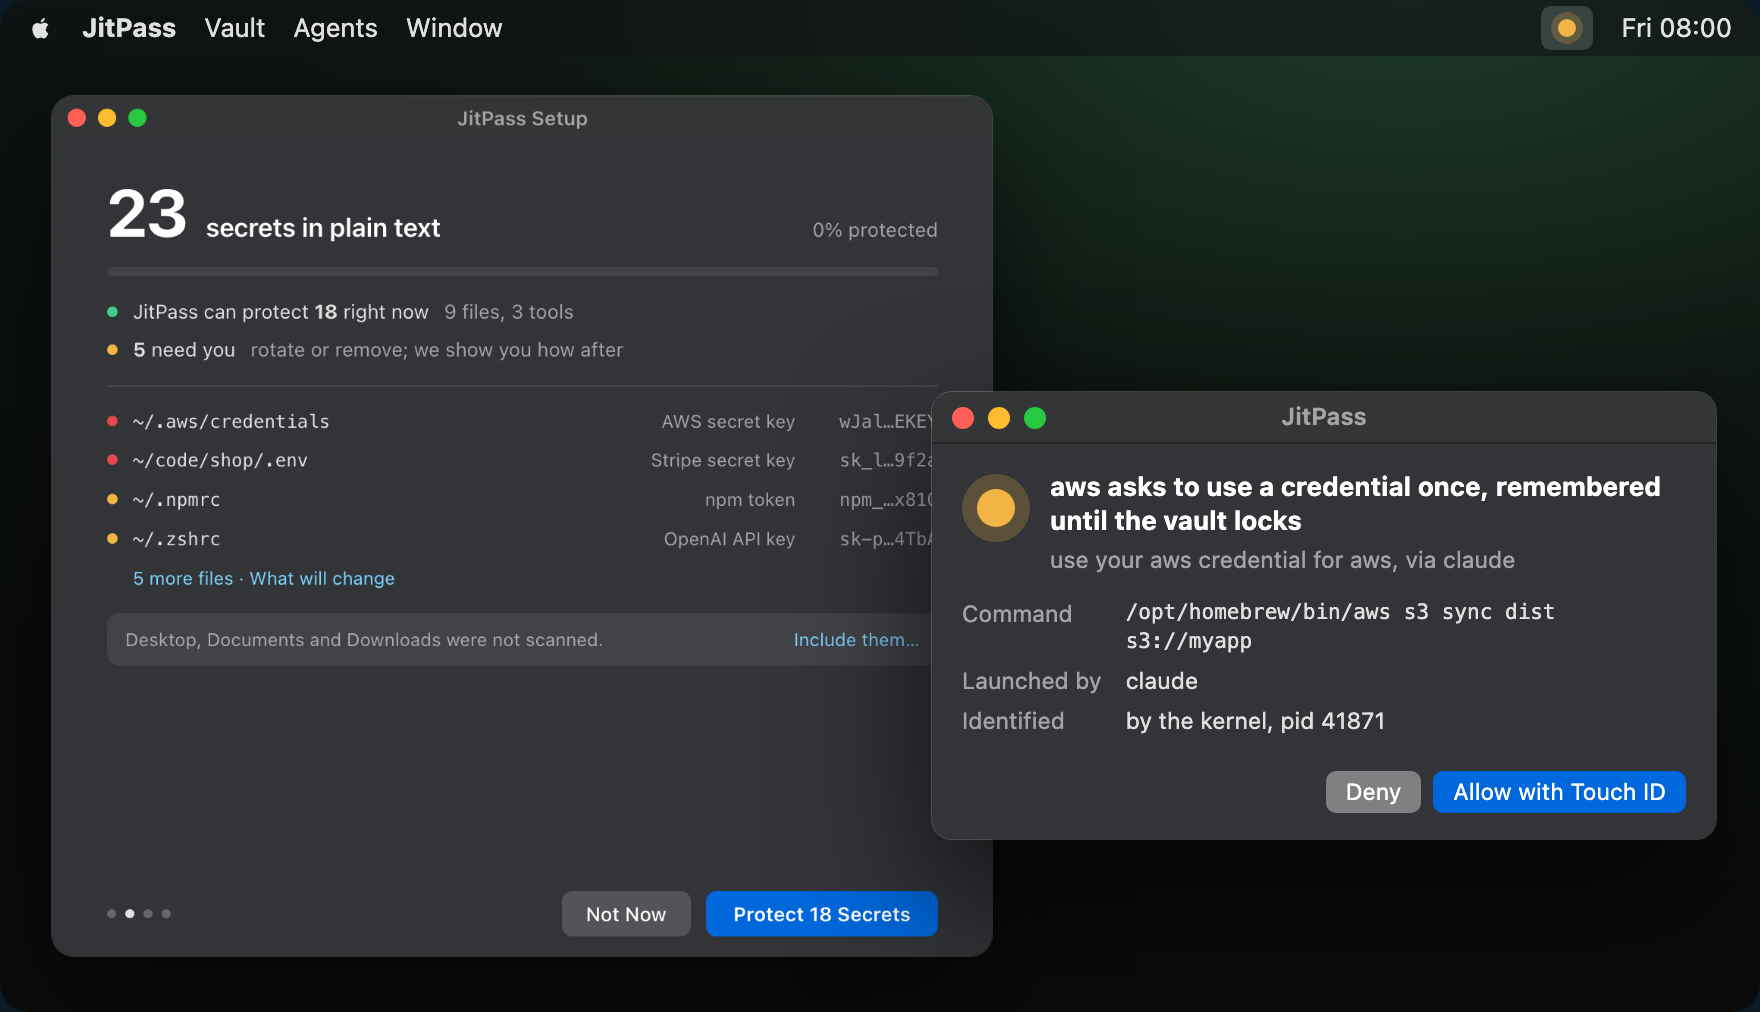
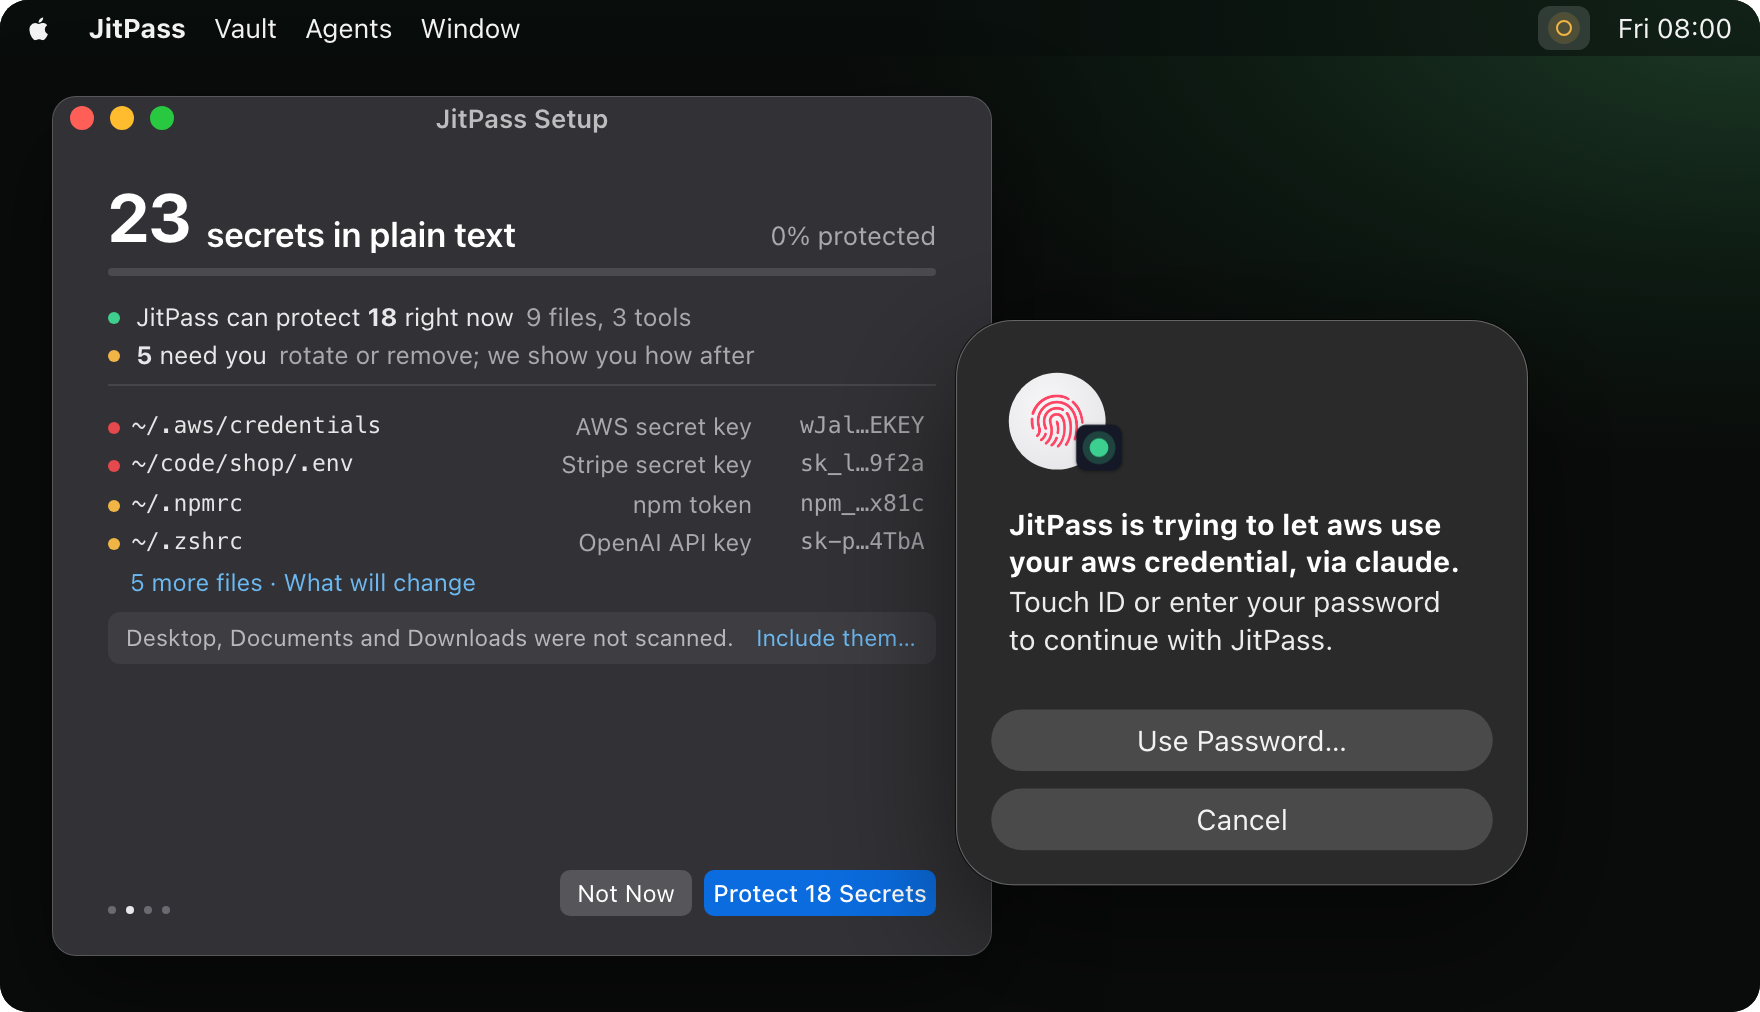
docs: say what 2.3.6 does, now that the Touch ID dialog is the whole question
The approval window is gone, so the README's hero and step 3 now show the
macOS Touch ID dialog with the sentence jit writes. The menu bar's amber
means not set up yet. The Touch ID sentences quoted in the docs follow the
new wording, and the job prompt no longer names vault groups.

New in the docs: on a locked vault one Touch ID approves and unlocks; an
approval lasts while it is used, never past a re-lock or 8 hours; a job
follows a value moved out of the vault. JIT_GUARD_BIN is gone.

Claude-Session: https://claude.ai/code/session_0117HqcdwGEaG8G5iUjQJUMV

diff --git a/CLAUDE.md b/CLAUDE.md
@@ -74,7 +74,7 @@ Caller identity — peercred, then pid command line and parent chain — **expla
 
 **Prevention is a third mode, not an injection tier.** `internal/guard` (`jit guard`) installs shell hooks that stop a credential being *recorded* in the first place — today one: a zsh `zshaddhistory` hook that keeps credential-carrying commands out of `$HISTFILE` while leaving them usable in the session. It delivers no secret, so it appears in no tier above. Two rules govern it: it must **fail open** (a hook that eats history or hangs the prompt is worse than one that misses a token), and its cheap in-shell admit test must never reject a line the real check would match — the same obligation `historyLineMayHoldToken` carries in `internal/audit` — the zsh condition is RENDERED from `audit.HistoryAdmitRule()` (literals, run length, run class) rather than retyped beside it, so the two cannot drift, and `internal/guard` imports `internal/audit` for it — and enforced by tests that drive the shipped hook through a real `zsh` over the corpus both admit tests share.
 
-**AI jobs run the command for the caller; the caller never holds a key** (`design/agent-jobs.md`, the design doc to read first). A job is an approved command: `internal/job` is the pure half (record, `jobs.json`, fingerprint, the argv check, the output masker) and decrypts nothing; the fingerprint covers what the program loads from outside the folder too (a Python's installation, Node's search folders, every linked dylib: `interp.go`, `libs.go`), read from files and never by running the interpreter, and a program it cannot cover may not be approved `--ask never`; `internal/agent/job.go` decides (fingerprint and rotation re-checked before the prompt, after it, and after the run; stops are sticky until re-approval; one run per job at a time); `internal/cli/jobrunner.go` is the only code that puts secrets into a child's environment, a scratch one, in its own process group, with stdout and stderr through the masker. `internal/mcp` (`jit mcp`) is a hand-rolled stdio MCP server that is a plain socket client: it holds no key and decides nothing, which is why a job run through Claude Desktop or Cursor and one run with `jit job run` are the same RPC. Three rules that are easy to break: every check approval makes lives in `prepareJob`, shared by `job_allow` and `job_preview`, so the app's sheet can never promise what approval refuses; the Touch ID sentence names what the service resolved (folder/program, vault group, how many shown), never the caller-chosen job name; and a job's own `.env` read gets the inert pointer, not the decoy, only for readers descended from that job's registered process (`cli/mountjobs.go`). Every safeguard has a test that was run against the code without it; keep that up when changing one.
+**AI jobs run the command for the caller; the caller never holds a key** (`design/agent-jobs.md`, the design doc to read first). A job is an approved command: `internal/job` is the pure half (record, `jobs.json`, fingerprint, the argv check, the output masker) and decrypts nothing; the fingerprint covers what the program loads from outside the folder too (a Python's installation, Node's search folders, every linked dylib: `interp.go`, `libs.go`), read from files and never by running the interpreter, and a program it cannot cover may not be approved `--ask never`; `internal/agent/job.go` decides (fingerprint and rotation re-checked before the prompt, after it, and after the run; stops are sticky until re-approval; one run per job at a time); `internal/cli/jobrunner.go` is the only code that puts secrets into a child's environment, a scratch one, in its own process group, with stdout and stderr through the masker. `internal/mcp` (`jit mcp`) is a hand-rolled stdio MCP server that is a plain socket client: it holds no key and decides nothing, which is why a job run through Claude Desktop or Cursor and one run with `jit job run` are the same RPC. Three rules that are easy to break: every check approval makes lives in `prepareJob`, shared by `job_allow` and `job_preview`, so the app's sheet can never promise what approval refuses; the Touch ID sentence names what the service resolved (folder/program, how many secrets, how many shown), never the caller-chosen job name; and a job's own `.env` read gets the inert pointer, not the decoy, only for readers descended from that job's registered process (`cli/mountjobs.go`). Every safeguard has a test that was run against the code without it; keep that up when changing one.
 
 ### The CGo seam
 

diff --git a/README.md b/README.md
@@ -29,7 +29,7 @@
 <p align="center"><sub>Free for personal and internal company use · Source-available · No account · No telemetry · Nothing leaves your Mac · Secure Enclave ready · Every change can be undone</sub></p>
 
 <p align="center">
-  <a href="docs/assets/readme/hero.png"><img src="docs/assets/readme/hero.png" width="880" alt="The JitPass Setup scan: 23 secrets in plain text, found in ~/.aws/credentials, a project .env, ~/.npmrc and ~/.zshrc, with masked values and a Protect 18 Secrets button. Beside it, JitPass asks: aws wants to use a credential, via claude. Deny, or Allow with Touch ID."></a>
+  <a href="docs/assets/readme/hero.png"><img src="docs/assets/readme/hero.png" width="880" alt="The JitPass Setup scan: 23 secrets in plain text, found in ~/.aws/credentials, a project .env, ~/.npmrc and ~/.zshrc, with masked values and a Protect 18 Secrets button. Beside it, the Touch ID dialog: JitPass is trying to let aws use your aws credential, via claude."></a>
   <br>
   <sub><b>What's the number on your Mac?</b> The scan only reads, and changes nothing until you say so.</sub>
 </p>
@@ -93,9 +93,9 @@ leaves a decoy where the plaintext was.**
       <b>One click</b> moves each secret into the vault and leaves a decoy in its place. Every file is backed up first, and your tools keep working.
     </td>
     <td width="33%" valign="top">
-      <a href="docs/assets/readme/step-approve.png"><img src="docs/assets/readme/step-approve.png" alt="The JitPass approval window: aws asks to use a credential, via claude. Command, launched by, identified by the kernel. Deny, or Allow with Touch ID."></a>
+      <a href="docs/assets/readme/step-approve.png"><img src="docs/assets/readme/step-approve.png" alt="The macOS Touch ID dialog: JitPass is trying to let aws use your aws credential, via claude. Use Password or Cancel."></a>
       <h3>3. Approve</h3>
-      When a program reaches for a real key, JitPass names it and what launched it. <b>Allow with Touch ID</b>, or deny.
+      When a program reaches for a real key, JitPass names it and what launched it in the Touch ID dialog. <b>Touch to allow</b>, or cancel.
     </td>
   </tr>
 </table>
@@ -227,7 +227,7 @@ Codex need nothing.
 
 ```console
 $ jit job allow notion-export -- .venv/bin/python export_pages.py
-  Touch ID  ->  let AI run notion/export_pages.py with 3 notion secrets
+  Touch ID  ->  let AI run notion/export_pages.py with 3 secrets, 1 shown
 ✓ Approved notion-export · 41 files fingerprinted
 ```
 
@@ -498,7 +498,7 @@ and `jit doctor` flags two jits on PATH if you forget.
 <a href="docs/assets/readme/panel.png"><img align="right" src="docs/assets/readme/panel.png" width="300" alt="The JitPass menu bar panel, unlocked: Vault 18 secrets, AI Agents all set, Tools 4 wrapped, Service running, Grants 1 active, AI Jobs 3 ready, Decoys 2 reads today, Doctor healthy, Findings 3 to do. Then Lock Now, New Grant, New Scan and Open Audit."></a>
 
 After setup, JitPass is a ring in your menu bar: **green** unlocked, **red**
-locked, **amber** a program is asking.
+locked, **amber** not set up yet.
 
 Click it to see your vault, your agents and tools, active grants, AI jobs,
 today's decoy reads, and what is left to do. **Lock Now**, **New Grant…**,
@@ -564,8 +564,9 @@ keys still has to ask.
 <summary><b>Details:</b> how long a session lasts, and turning the second question off</summary>
 
 A session ends after 5 minutes without use, and never lasts longer than
-8 hours. When the app is not running, the second question is a Touch ID
-prompt that names the program.
+8 hours. The second question is a Touch ID prompt that names the program
+and what launched it. If the vault is locked when a program first asks, the
+two are one Touch ID: the dialog says it will also unlock the vault.
 
 Only want the vault lock? Turn off **Ask before a tool's first use** in
 Settings › Protection, or run `jit service consent off`. Starting something that needs several secrets at

diff --git a/docs/service/consent.md b/docs/service/consent.md
@@ -14,8 +14,10 @@ ID, names who is asking, and remembers an approval for the rest of the session.
 (A refusal works differently, and deliberately so - see
 [Saying no, repeatedly](#saying-no-repeatedly).)
 
-Consent is **on by default**. A tool you approve once is not asked again until
-the session re-locks. The check is **per tool**: approving `terraform`'s use of
+Consent is **on by default**. A tool you approve once is not asked again while
+it keeps using the credential: the approval ends when the vault re-locks, when
+it goes unused for the session timeout, or 8 hours after you gave it, whichever
+comes first. The check is **per tool**: approving `terraform`'s use of
 your AWS keys does not silently cover a different program that reaches for them,
 so an unexpected first use (a postinstall script, a tool you did not launch)
 still stops for a prompt you can decline.
@@ -24,10 +26,10 @@ still stops for a prompt you can decline.
 # the first time terraform reaches for your AWS keys this session:
 #   Touch ID prompt: "let terraform use your aws credential, via claude"
 # approve once, and terraform (and anything it launched) is not asked again
-# until the vault re-locks.
+# while it keeps using it, until the vault re-locks.
 #
 # asked again after you already said no, the prompt says so:
-#   "use your aws credential (refused 2 times) for terraform, via claude"
+#   "let terraform use your aws credential, via claude (refused 2 times)"
 ```
 
 ## Turning it on and off
@@ -88,8 +90,17 @@ says "(unverified)" to mark it. The vault crypto is unaffected
 either way, and if the reader cannot be fully identified the mount serves
 decoys rather than guess.
 
-An approval is remembered only for the session and is dropped the moment the
-vault re-locks, so consent never outlives the unlock it rode in on.
+An approval is remembered only for the session it was given in. Each use keeps
+it alive for another session timeout; it is dropped the moment the vault
+re-locks, and never lasts more than 8 hours from when you gave it, so consent
+never outlives the unlock it rode in on.
+
+If the vault is locked when a tool first asks, you get one Touch ID, not two:
+the dialog says "let terraform unlock the vault and use aws, via claude", and
+approving it also opens the session. A `jit run --with` grant works the same
+way. Grants, AI job runs and `jit run --trust` never unlock the vault: nothing
+after them needs the session, so unlocking there would give more than you
+were asked for.
 
 ## Saying no, repeatedly
 

diff --git a/docs/security/architecture.md b/docs/security/architecture.md
@@ -79,7 +79,8 @@ Secrets materialize at the moment of use and nowhere else:
   requesting tool on demand; no intermediate file exists. By default,
   [per-process consent](../service/consent.md) gates each fetch: the first time
   a given tool reaches for one of these credentials in a session, the service
-  prompts a fresh Touch ID naming it and remembers the answer until re-lock, so
+  prompts a fresh Touch ID naming it and remembers the answer while it is used
+  (until re-lock, never more than 8 hours), so
   a migrated credential is never handed out completely silently even while the
   vault is unlocked.
 - An [AI job](../service/ai-jobs.md) delivers a secret to a command the
@@ -219,8 +220,8 @@ the fingerprint and the secrets' rotation before the prompt, after it, and
 after the command exits; any difference stops the job, and the stop is
 sticky until the human reviews and approves it again. The Touch ID prompt
 says what the service resolved, never the job's name, which any caller can
-choose: approving names the folder and the program it runs, the vault groups
-its secrets come from, how many may appear in the output, and whether it
+choose: approving names the folder and the program it runs, how many secrets it
+gets, how many may appear in the output, and whether it
 will ever ask again; each run of a job that asks names the folder and
 program, who asked, and how many secrets. The full command is shown before
 the prompt: printed by `jit job allow`, and on the app's sheet.

diff --git a/docs/reference/environment-variables.md b/docs/reference/environment-variables.md
@@ -36,7 +36,6 @@ lifetime - it is never exported to your shell or written anywhere.
 | `SHELL` | used when wiring shell-specific integration |
 | `ZDOTDIR` | when set, [`jit guard history`](../migrate/shell-history.md) writes its source line to `$ZDOTDIR/.zshrc` instead of `~/.zshrc` - the file your zsh actually reads |
 | `HISTFILE` | consulted by `jit scan` and `jit migrate` to find a relocated shell history file. Note zsh and bash keep this as an ordinary shell parameter, **not** an exported one, so jit usually cannot see it: name the file explicitly (`jit migrate ~/.cache/zsh/history`, which is routed by name) or `export HISTFILE` if you want the machine-wide scan to reach it |
-| `JIT_GUARD_BIN` | overrides which `jit` binary the installed history-guard hook invokes; exists for jit's own tests, not for daily use |
 | `JIT_PAGER` | the pager for jit's long reports (`jit audit`, `jit scan`), checked before `$PAGER`. Set it to `cat` or the empty string to never page, whatever `$PAGER` says |
 | `PAGER` | the fallback when `$JIT_PAGER` is unset; `less` if neither is. Same `cat`/empty escape hatch. See [CLI conventions](./conventions.md#long-reports-page-like-git) |
 | `LESS` | if you export your own, jit passes it through untouched. Only when it is unset does jit run bare `less` with `LESS=FRX` (quit inline when the report fits one screen, keep colour, stay in scrollback) |

diff --git a/docs/service/ai-jobs.md b/docs/service/ai-jobs.md
@@ -78,9 +78,9 @@ The app's agent then has three tools: `list_jobs`, `run_job` and
 
 ## 3. What happens when it runs
 
-- A job approved to ask **each time** shows a Touch ID naming who asked. With
-  JitPass running you first see the job's own sheet (the command, the folder,
-  who asked), press Allow, and confirm with Touch ID.
+- A job approved to ask **each time** shows a Touch ID naming the job's
+  folder and program, who asked, and how many secrets: "run
+  notion/export_pages.py for claude with 3 secrets".
 - The service checks the job's folder first, and the interpreter the job
   runs (see [What the fingerprint covers](#what-the-fingerprint-covers)). If
   anything changed since you approved it, a script, a library, Python's own
@@ -93,6 +93,11 @@ The app's agent then has three tools: `list_jobs`, `run_job` and
 - The tool gets the exit code and the output. Every secret value, and its
   common encodings, is hidden. With `--output DIR` (terminal only), files the
   job wrote there are listed by path.
+
+- If you moved one of the job's values out of the vault (`jit vault
+  move-out`), the job follows it to the setting once the service has checked
+  that the two copies match. If it cannot check, the job stops until you
+  approve it again.
 
 ## 4. When the tool asks for a job that does not exist
 

diff --git a/docs/testing/pre-release-playbook.md b/docs/testing/pre-release-playbook.md
@@ -223,7 +223,7 @@ Work each surface as a user. Hermetic if you prefer, or reuse the playground.
   one out and back) and run again; `jit mcp install/status/uninstall` for `claude-desktop` and
   `--client cursor`; drive `jit mcp` over stdio (`initialize`, `tools/list`, `run_job`, `request_job`).
 - **Expect:** the prompt says what the service resolved and never the job's name (a caller chooses
-  that): approving names the folder/program, the vault groups, how many are shown and whether it
+  that): approving names the folder/program, how many secrets, how many are shown and whether it
   will ask again; each run of an asking job names the folder/program, who asked and how many
   secrets; the full command is printed before the prompt; output carries `[hidden: NAME]`
   for every secret not marked shown; any folder change stops the job, sticky, naming the file, until

diff --git a/docs/service/provenance.md b/docs/service/provenance.md
@@ -64,7 +64,8 @@ Among the auth events, eight kinds appear:
   approval, a `jit run --trust` registration, or a
   [process grant](./grants.md)'s creation or extension. These sit on top of
   the session rather than opening one, so they are their own kind rather than
-  an unlock, and `reason` is the exact sentence that was on the dialog. Without
+  an unlock (one exception: a consent approval or `--with` grant on a locked
+  vault also opens it, and the trail shows the grant, then the unlock), and `reason` is the exact sentence that was on the dialog. Without
   this entry the trail could show every prompt you *refused* and none that you
   allowed, which is the wrong half to be able to prove.
 - **grant (status=ended)** - a [process grant](./grants.md) ending, with the

diff --git a/docs/service/grants.md b/docs/service/grants.md
@@ -82,7 +82,7 @@ anchor to "the terminal you type it in", so it may name one explicitly:
 "any `claude` under iTerm2". The service accepts only a genuine session
 root there (an app the system launched directly, never a process inside
 someone's tree and never launchd), and the Touch ID prompt then opens with
-who is asking - "JitPass asks: let claude under iTerm2 use 2 secrets …" -
+who is asking - "JitPass asks: let claude use "deploy" for 8 hours" -
 so the tree no longer implies the requester and the prompt says it instead.
 Everything else is the same grant: the name only narrows, membership is
 decided per read against the live tree, and the human on the prompt is the

diff --git a/docs/getting-started/how-it-works.md b/docs/getting-started/how-it-works.md
@@ -30,7 +30,8 @@ It's also the process that serves live-mounted files.
 On top of that session, [per-process consent](../service/consent.md) (on by
 default) prompts a Touch ID the first time each tool reaches for a real
 credential, naming what's asking, so an unlocked session still isn't a blank
-cheque. You approve a tool once and it's remembered until the vault re-locks.
+cheque. You approve a tool once and it's remembered while it keeps using it, until the
+vault re-locks, and never more than 8 hours.
 
 ## Profiles
 

diff --git a/docs/service/index.md b/docs/service/index.md
@@ -1,6 +1,6 @@
 ---
 title: The background service
-description: Unlock once per session instead of once per command - a launchd-managed session broker that's a solid part of jit.
+description: Unlock once per session instead of once per command - a launchd-managed service that holds your session and is a solid part of jit.
 ---
 
 # The background service
